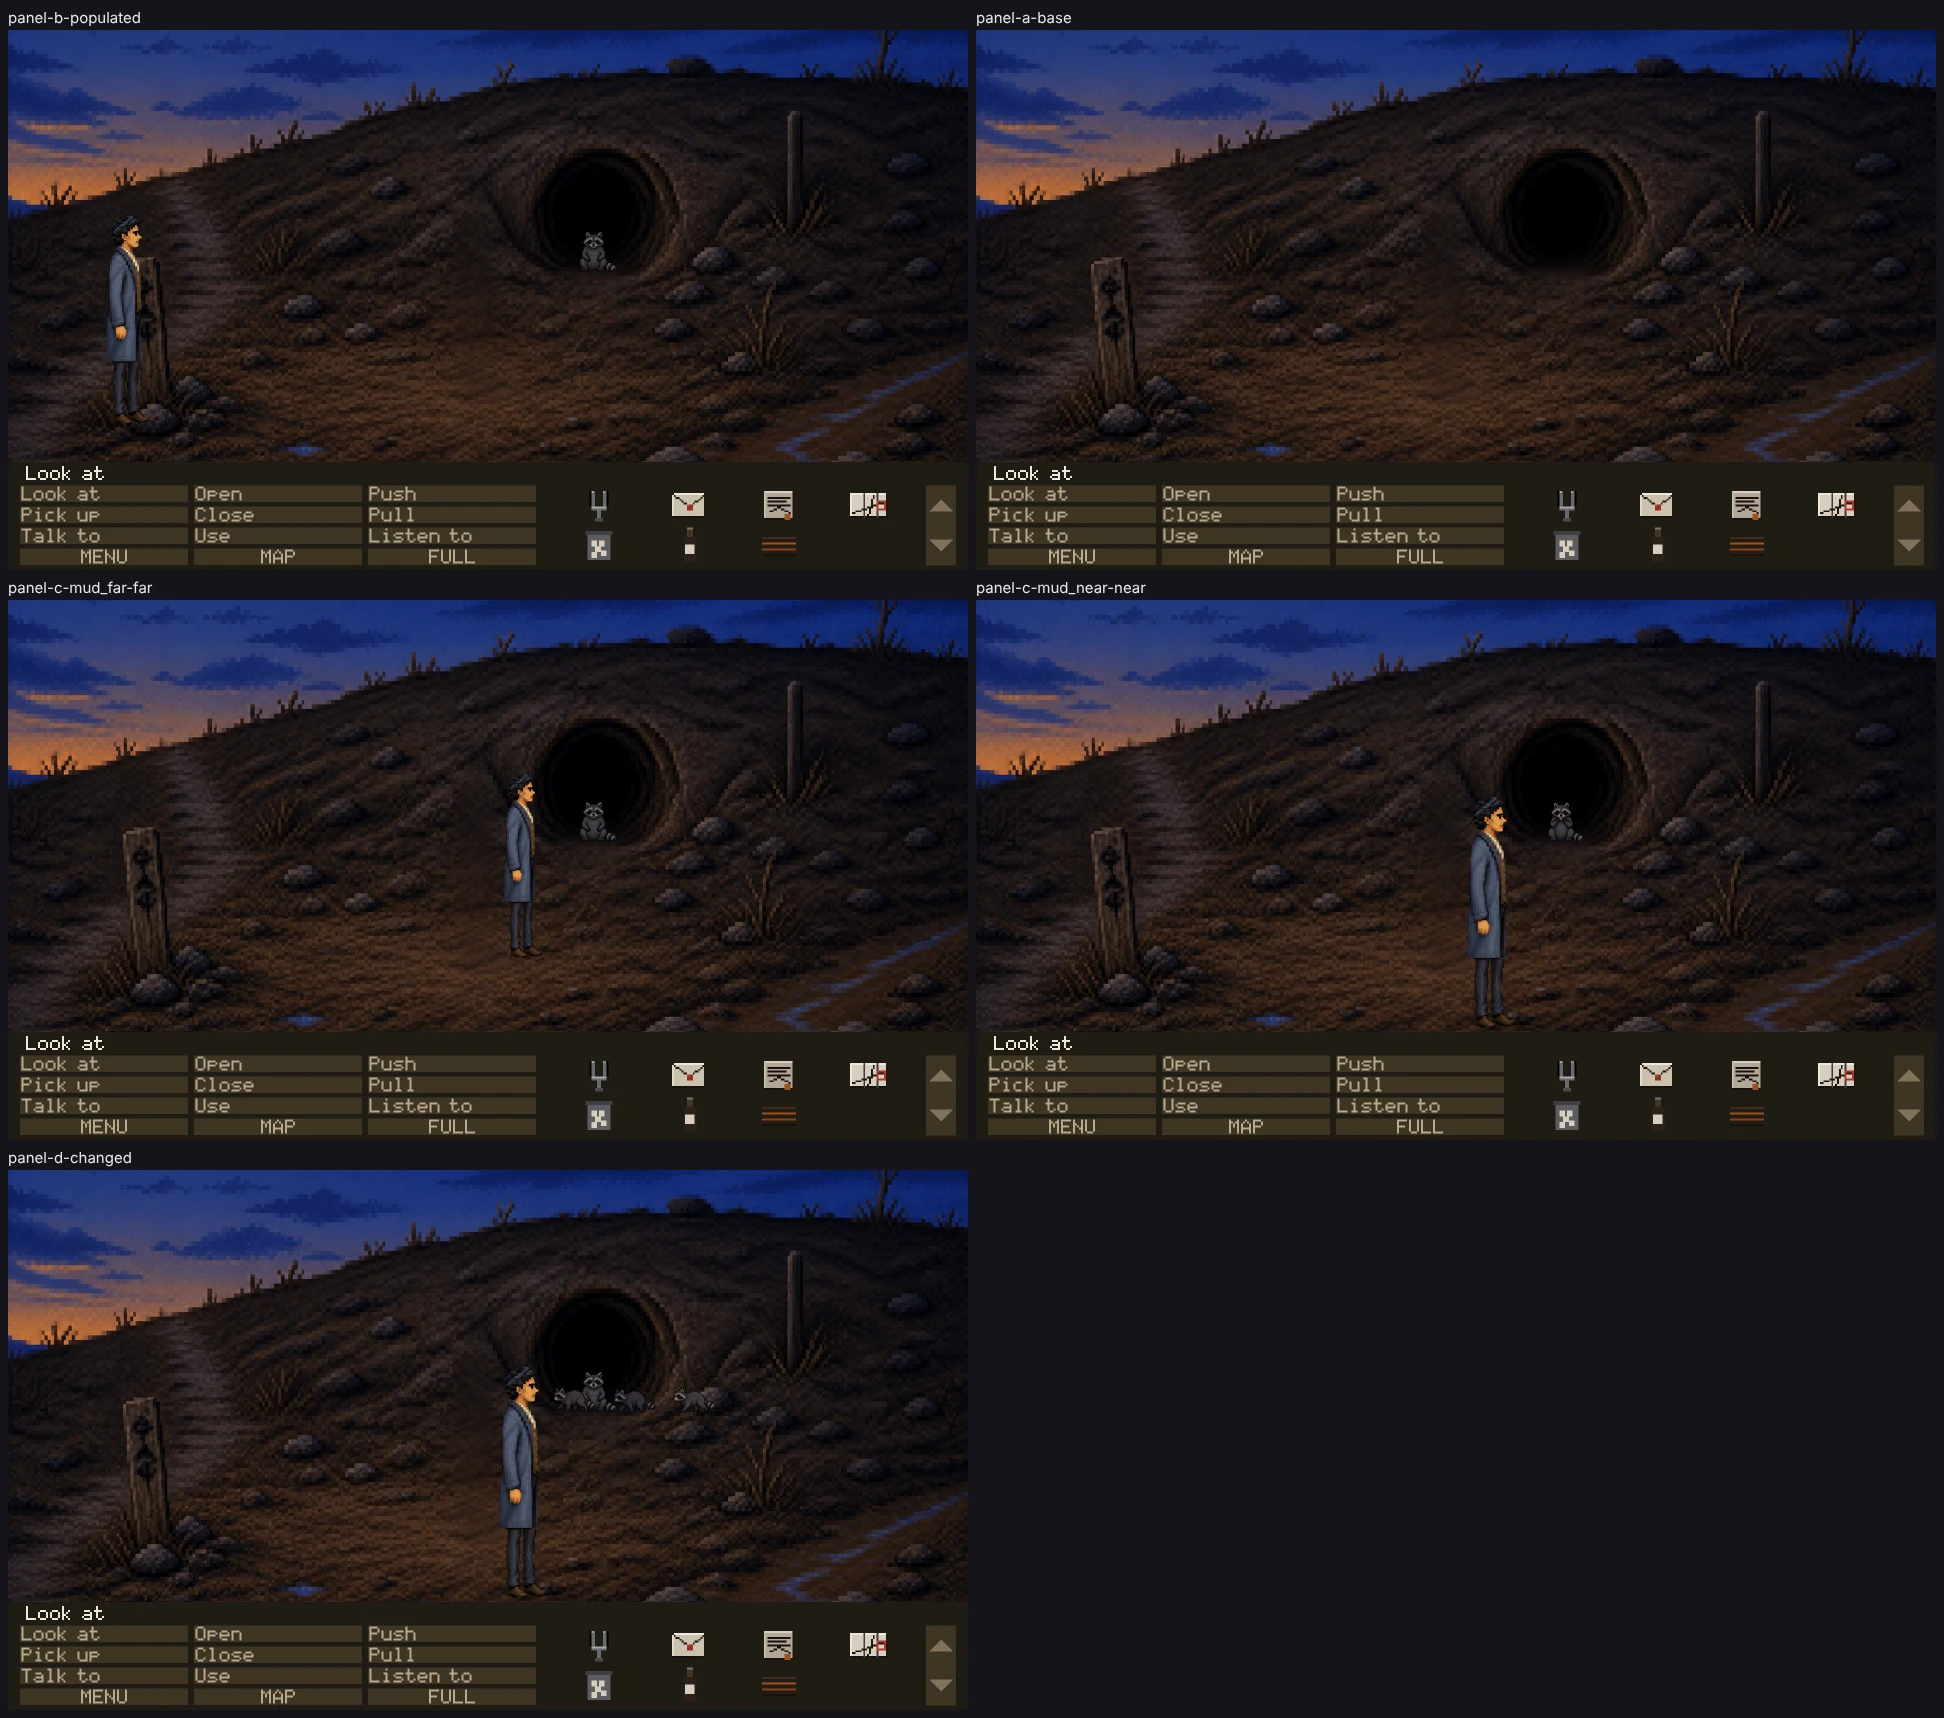
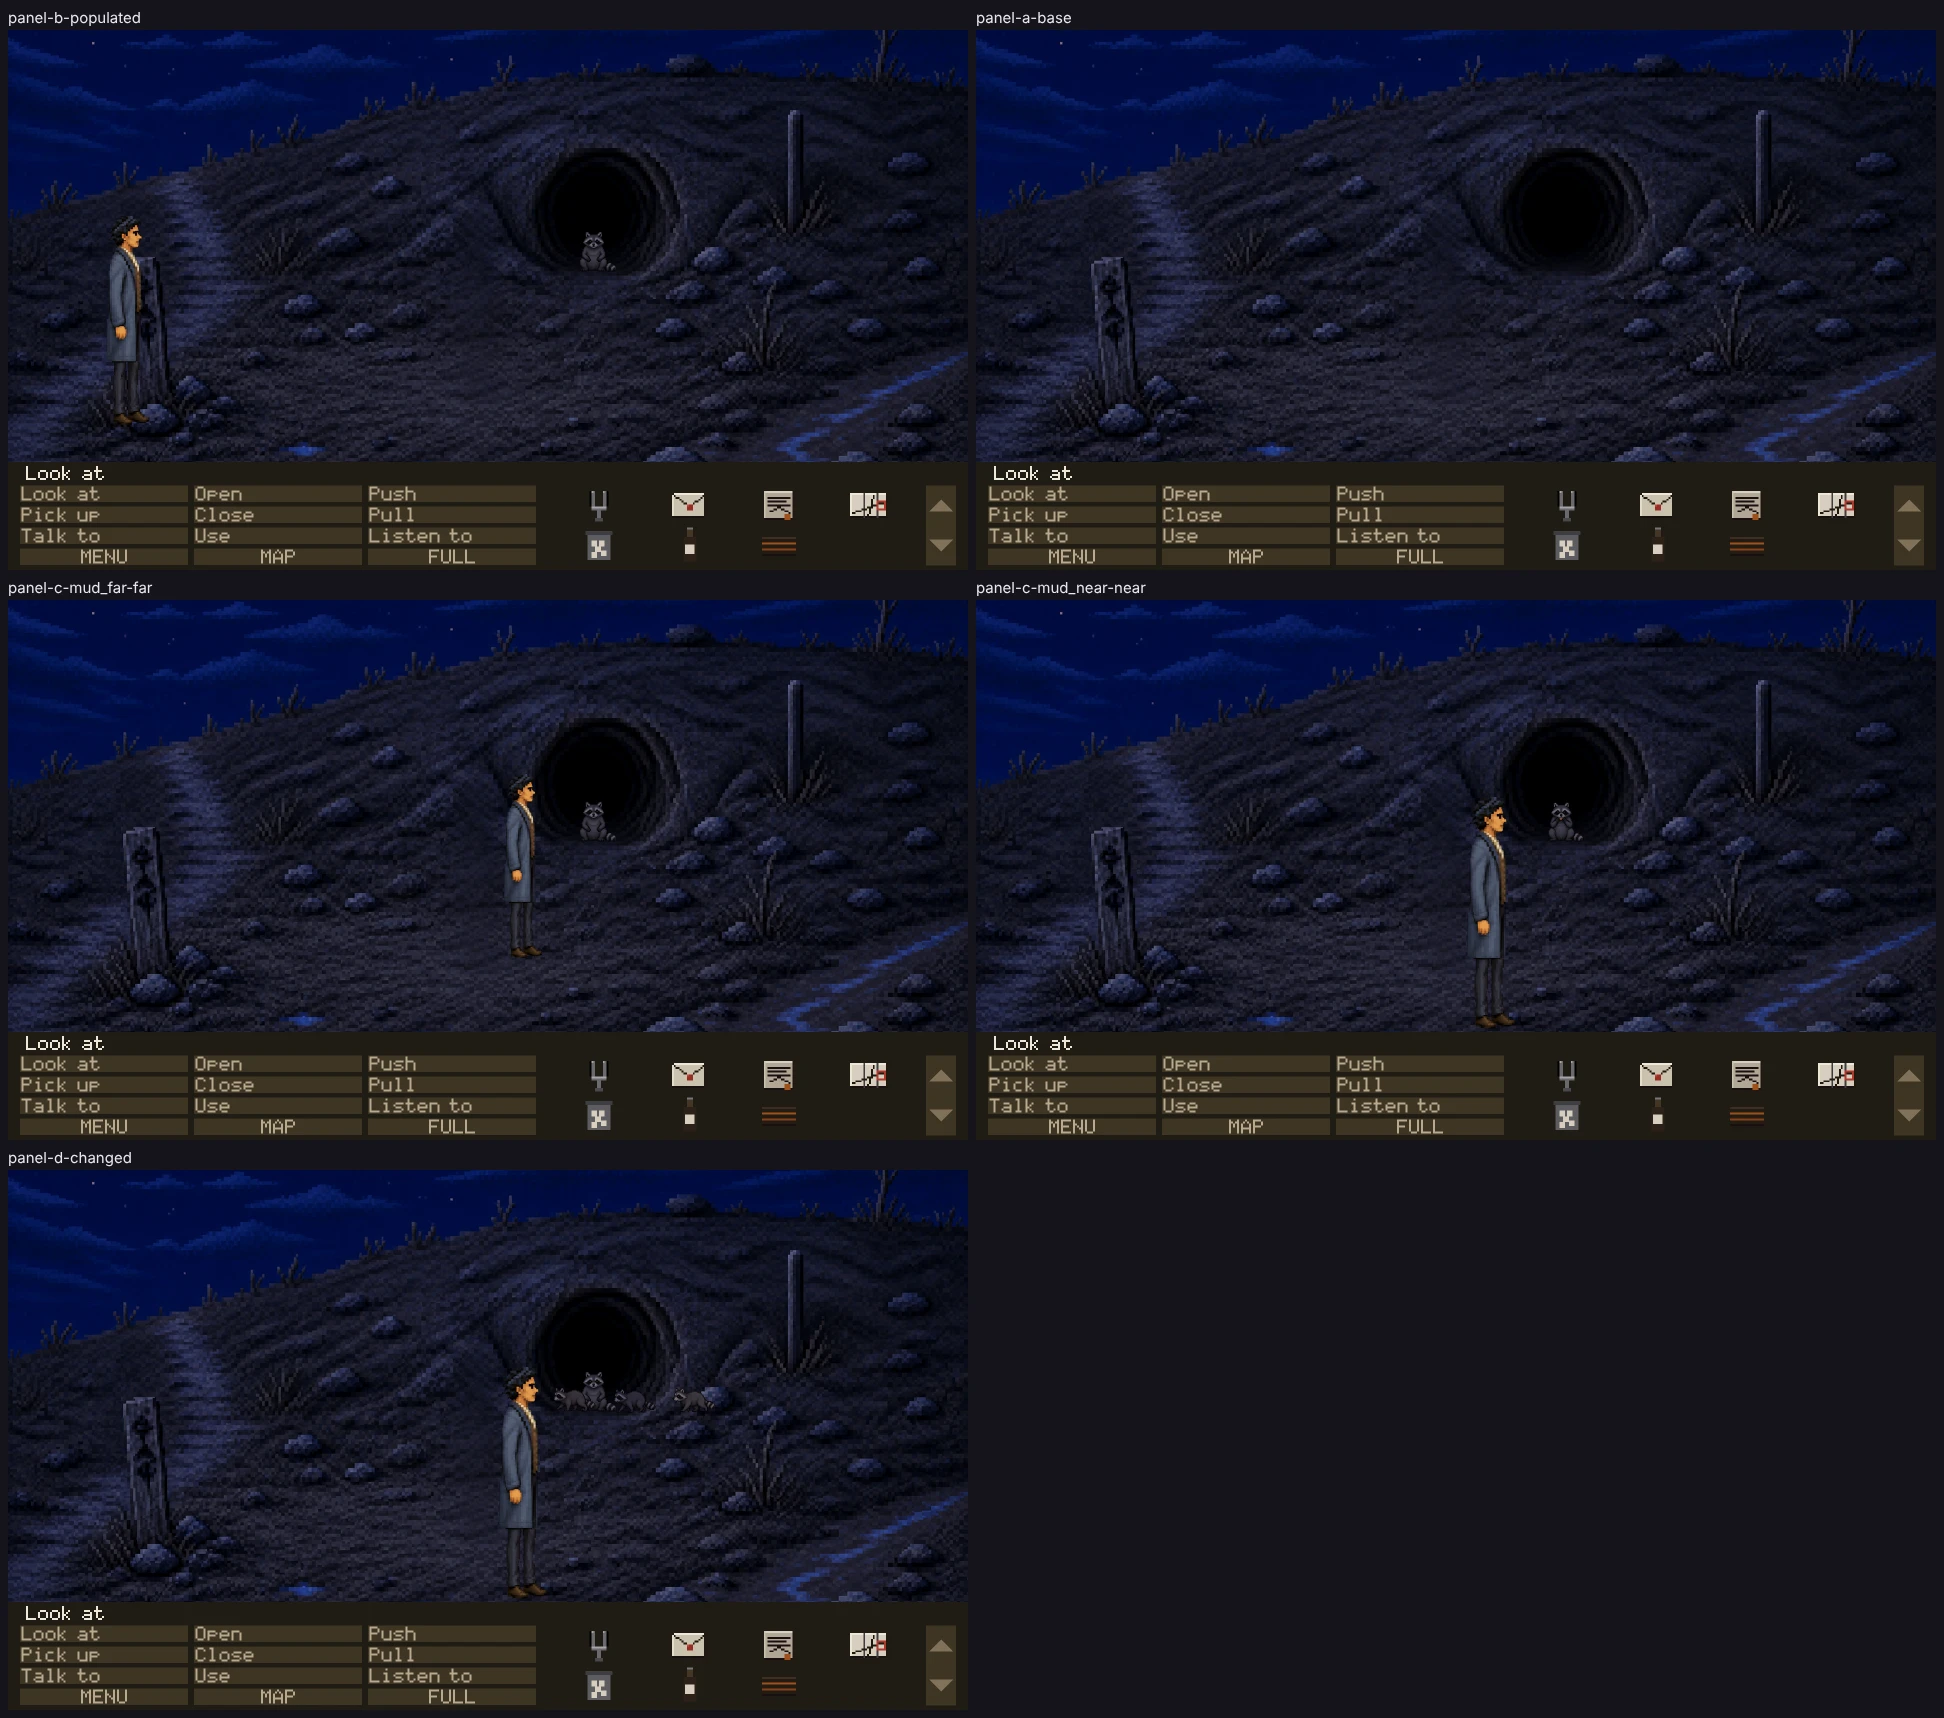
Room 23/24: four-panel proof on a clean tree
Claude-Session: https://claude.ai/code/session_01FXbCupzwLJAEr7fqqWYP8A

Changed region(s): [[0.0, 0.0, 1.0, 0.2776], [0.0, 0.3393, 1.0, 0.617], [0.0, 0.6787, 0.5247, 0.9563]]

diff --git a/renders/proofs/prosperity/index.html b/renders/proofs/prosperity/index.html
@@ -17,7 +17,7 @@
 </style>
 <h1>prosperity — four-panel live-runtime proof</h1>
 <p class="lede">Every frame below is the full play area as the renderer drew it, in the running
-game, at <code>41470700</code> on <code>ccr-347d40c6-71r9f9</code>.
+game, at <code>734a4cb8</code> on <code>ccr-347d40c6-71r9f9</code>.
 No crop, isolated sprite or source image appears here: those are for diagnosing what a full
 frame has already shown.</p>
 <p class="lede"><b>These panels establish technical admissibility only.</b> Nothing here says the
